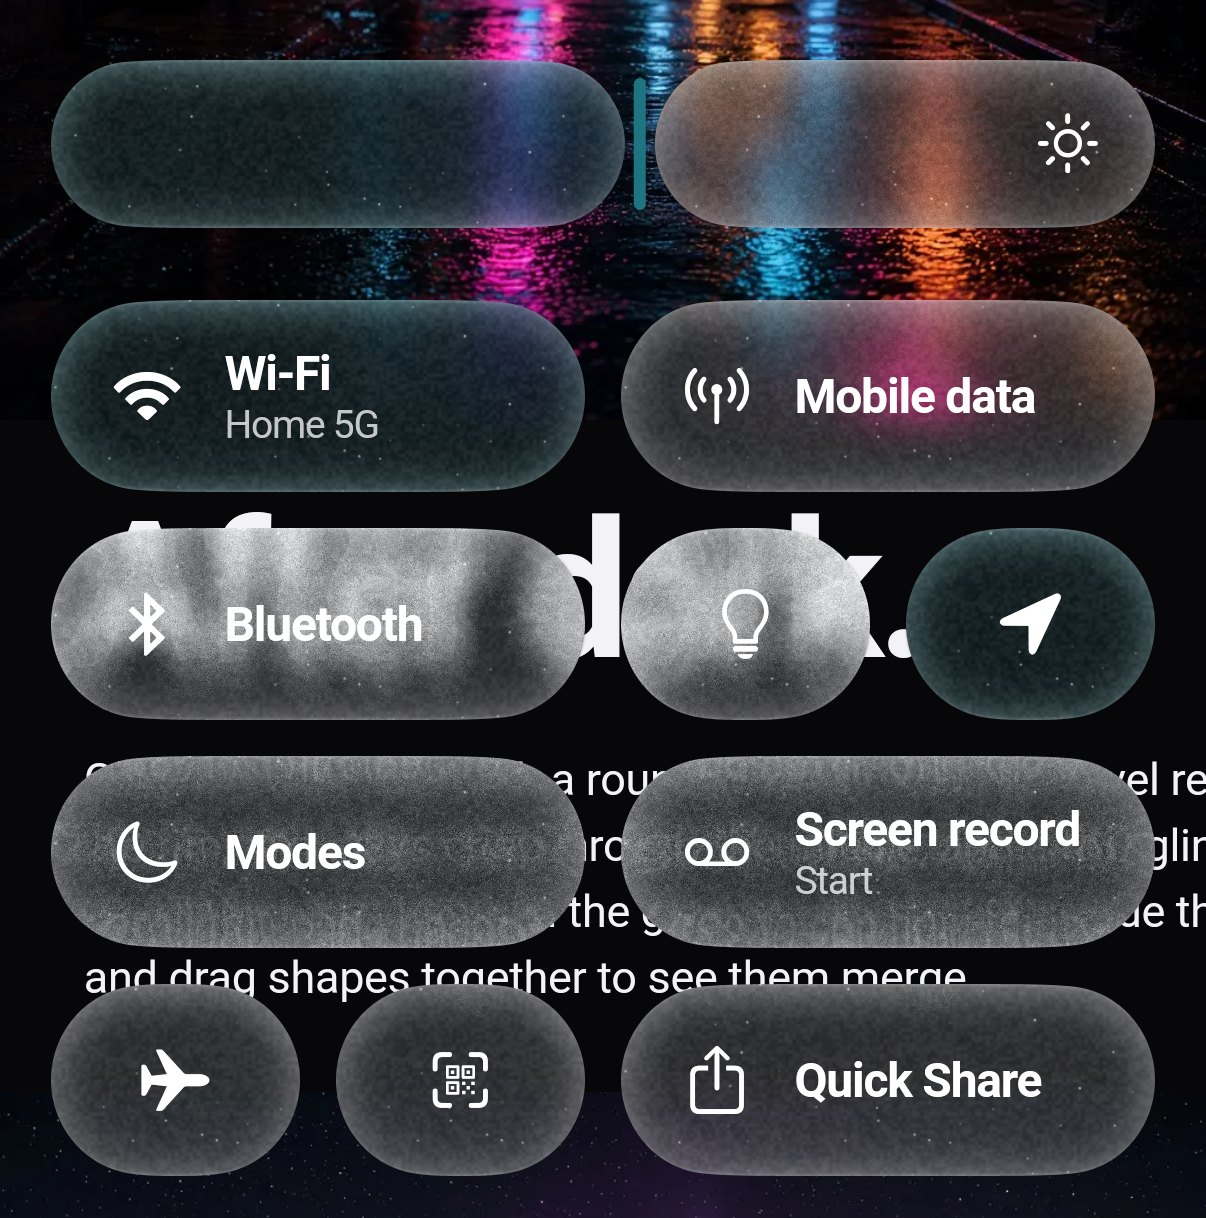
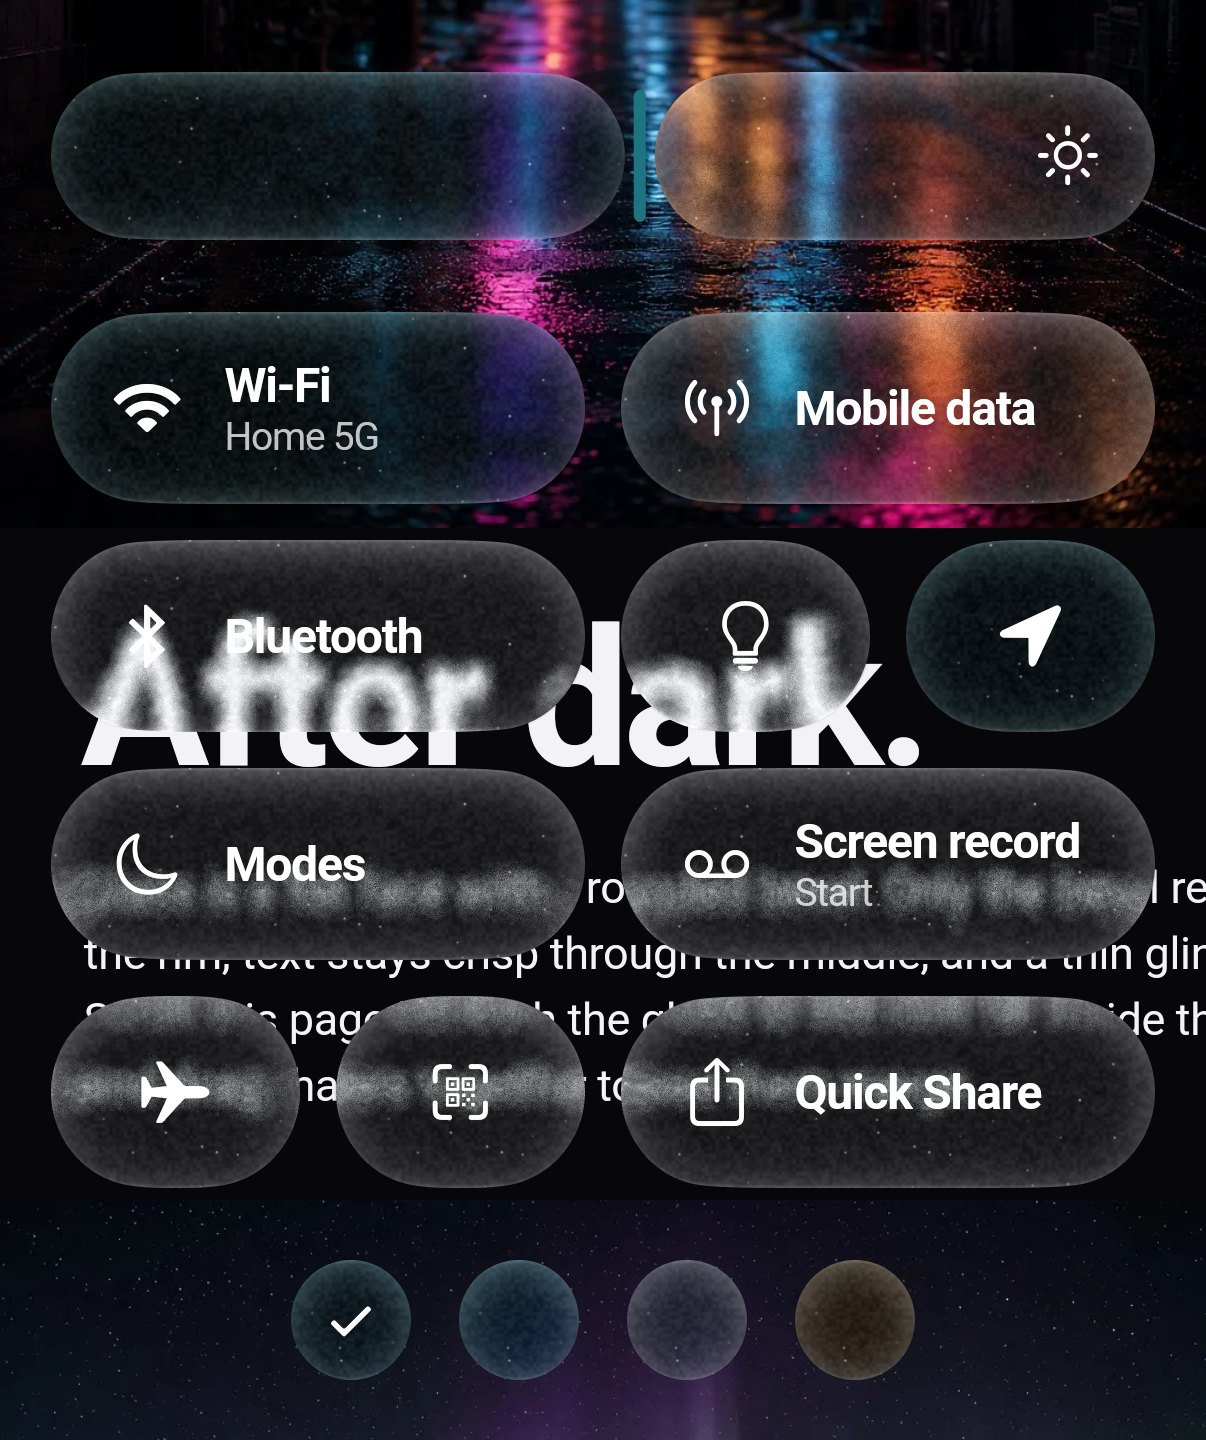
feat(liquid_glass_renderer): clearer sea glass, accent colors in the example
- The seaGlass preset now frosts as lightly as iOS 27's resting glass
  (frost 2) and SeaGlassFinish() scatters less (scatter 0.12, pitting
  0.6), so the backdrop reads through sea glass. The playground's
  frosted white body is thinner too.
- Example: the sea glass scene has accent swatches (teal, aqua, seafoam,
  amber) that recolor the switched-on tiles, keeps the light ink
  readable on light accents, and gives tiles Apple's gel-like stretch
  under liquid glass and the pebble stretch under sea glass. The scene
  stays at sixteen shapes in one layer, so it samples the backdrop once.
- README screenshots refreshed.

Claude-Session: https://claude.ai/code/session_013aWdsL46Rwzt6CACjL85kD

diff --git a/example/lib/playground/scenes/sea_glass_scene.dart b/example/lib/playground/scenes/sea_glass_scene.dart
@@ -3,35 +3,57 @@ import 'package:liquid_glass_renderer/liquid_glass_renderer.dart';
 import 'package:liquid_glass_renderer_example/playground/scenes/draggable_glass.dart';
 import 'package:liquid_glass_renderer_example/playground/sheet_avoidance.dart';
 
-/// A quick settings panel in sea glass: frosted tiles that turn to deep teal
-/// glass when switched on, and a brightness slider.
+/// A quick settings panel in sea glass: frosted tiles that turn to colored
+/// glass when switched on, a brightness slider, and a row of accent colors.
 ///
 /// Every tile is one shape in the stage's layer. Inactive tiles inherit the
-/// layer's appearance; active tiles carry a teal body color, so switching a
-/// tile only changes its appearance and never needs another backdrop
-/// capture.
+/// layer's appearance; active tiles carry the accent as their body color, so
+/// switching a tile only changes its appearance and never needs another
+/// backdrop capture.
 class SeaGlassScene extends StatefulWidget {
   const SeaGlassScene({super.key});
 
-  /// The appearance of switched-on tiles: a teal sea glass body, or teal
-  /// tinted glass when the layer has no sea glass finish.
-  static LiquidGlassAppearance activeAppearance(BuildContext context) =>
-      LiquidGlassSettings.of(context).seaGlassFinish.isEnabled
-      ? const LiquidGlassAppearance.seaGlass(color: SeaGlassColors.teal)
+  /// The accent colors to pick from, teal first. With the twelve shapes of
+  /// the panel, four swatches fill the stage layer's sixteen shapes, so the
+  /// whole scene still samples the backdrop once.
+  static const accents = [
+    ('Teal', SeaGlassColors.teal),
+    ('Aqua', SeaGlassColors.aqua),
+    ('Seafoam', SeaGlassColors.seafoam),
+    ('Amber', SeaGlassColors.amber),
+  ];
+
+  /// The appearance of switched-on tiles: a sea glass body of [color], or
+  /// glass tinted [color] when the layer has no sea glass finish.
+  static LiquidGlassAppearance activeAppearance(
+    BuildContext context, [
+    Color color = SeaGlassColors.teal,
+  ]) => LiquidGlassSettings.of(context).seaGlassFinish.isEnabled
+      ? LiquidGlassAppearance.seaGlass(color: color)
       : LiquidGlassAppearance.ios27Regular(
           brightness: CupertinoTheme.brightnessOf(context),
-          tint: SeaGlassColors.teal,
+          tint: color,
         );
 
   @override
   State<SeaGlassScene> createState() => _SeaGlassSceneState();
 }
 
-/// Ink on frosted tiles, which follows the appearance, and on teal tiles.
-Color _ink(BuildContext context, {bool active = false}) =>
-    active || CupertinoTheme.brightnessOf(context) == Brightness.dark
-    ? const Color(0xFFFFFFFF)
-    : const Color(0xFF173A40);
+/// Ink on frosted tiles, which follows the appearance, and on tiles in
+/// [accent]: white on deep colors, dark on light ones.
+Color _ink(BuildContext context, {Color? accent}) {
+  final light = accent != null
+      ? accent.computeLuminance() > 0.35
+      : CupertinoTheme.brightnessOf(context) == Brightness.light;
+  return light ? const Color(0xFF173A40) : const Color(0xFFFFFFFF);
+}
+
+/// Squash and stretch for a tile: Apple's gel-like give for liquid glass,
+/// a solid pebble's for sea glass.
+Widget _stretch(BuildContext context, Widget child) =>
+    LiquidGlassSettings.of(context).seaGlassFinish.isEnabled
+    ? LiquidStretch.seaGlass(child: child)
+    : LiquidStretch(child: child);
 
 const _tileHeight = 64.0;
 const _gap = 12.0;
@@ -39,6 +61,7 @@ const _gap = 12.0;
 class _SeaGlassSceneState extends State<SeaGlassScene> {
   final _active = <String>{'Wi-Fi', 'Location'};
   var _brightness = 0.55;
+  var _accent = SeaGlassColors.teal;
 
   void _toggle(String label) => setState(() {
     if (!_active.remove(label)) _active.add(label);
@@ -48,7 +71,7 @@ class _SeaGlassSceneState extends State<SeaGlassScene> {
     icon: icon,
     label: label,
     detail: detail,
-    active: _active.contains(label),
+    accent: _active.contains(label) ? _accent : null,
     onTap: () => _toggle(label),
   );
 
@@ -56,7 +79,7 @@ class _SeaGlassSceneState extends State<SeaGlassScene> {
     icon: icon,
     label: label,
     compact: true,
-    active: _active.contains(label),
+    accent: _active.contains(label) ? _accent : null,
     onTap: () => _toggle(label),
   );
 
@@ -73,6 +96,7 @@ class _SeaGlassSceneState extends State<SeaGlassScene> {
               children: [
                 _BrightnessSlider(
                   value: _brightness,
+                  accent: _accent,
                   onChanged: (value) => setState(() => _brightness = value),
                 ),
                 const SizedBox(height: _gap * 2),
@@ -101,6 +125,11 @@ class _SeaGlassSceneState extends State<SeaGlassScene> {
                   ], bottom: 0),
                   _wide(CupertinoIcons.share, 'Quick Share'),
                 ], bottom: 0),
+                const SizedBox(height: _gap * 2),
+                _AccentPicker(
+                  selected: _accent,
+                  onSelected: (color) => setState(() => _accent = color),
+                ),
               ],
             ),
           ),
@@ -126,8 +155,8 @@ class _Tile extends StatelessWidget {
   const _Tile({
     required this.icon,
     required this.label,
-    required this.active,
     required this.onTap,
+    this.accent,
     this.detail,
     this.compact = false,
   });
@@ -135,25 +164,32 @@ class _Tile extends StatelessWidget {
   final IconData icon;
   final String label;
   final String? detail;
-  final bool active;
+
+  /// The body color while switched on; `null` while off.
+  final Color? accent;
   final bool compact;
   final VoidCallback onTap;
 
+  bool get active => accent != null;
+
   @override
   Widget build(BuildContext context) {
-    final ink = _ink(context, active: active);
+    final ink = _ink(context, accent: accent);
     return Semantics(
       button: true,
       toggled: active,
       label: compact ? label : null,
       child: GestureDetector(
         onTap: onTap,
-        child: LiquidStretch.seaGlass(
-          child: LiquidGlass(
+        child: _stretch(
+          context,
+          LiquidGlass(
             shape: const LiquidRoundedSuperellipse(
               borderRadius: _tileHeight / 2,
             ),
-            appearance: active ? SeaGlassScene.activeAppearance(context) : null,
+            appearance: accent == null
+                ? null
+                : SeaGlassScene.activeAppearance(context, accent!),
             child: _FrostedGlow(
               child: SizedBox(
                 height: _tileHeight,
@@ -225,9 +261,14 @@ class _FrostedGlow extends StatelessWidget {
 /// A brightness slider: a teal glass bar for the level and a frosted bar
 /// for the rest, split by a thin handle.
 class _BrightnessSlider extends StatelessWidget {
-  const _BrightnessSlider({required this.value, required this.onChanged});
+  const _BrightnessSlider({
+    required this.value,
+    required this.accent,
+    required this.onChanged,
+  });
 
   final double value;
+  final Color accent;
   final ValueChanged<double> onChanged;
 
   static const _height = 56.0;
@@ -262,7 +303,10 @@ class _BrightnessSlider extends StatelessWidget {
                       shape: const LiquidRoundedSuperellipse(
                         borderRadius: _height / 2,
                       ),
-                      appearance: SeaGlassScene.activeAppearance(context),
+                      appearance: SeaGlassScene.activeAppearance(
+                        context,
+                        accent,
+                      ),
                       child: const SizedBox.expand(),
                     ),
                   ),
@@ -271,10 +315,12 @@ class _BrightnessSlider extends StatelessWidget {
                     top: 6,
                     bottom: 6,
                     width: 4,
-                    child: const DecoratedBox(
+                    child: DecoratedBox(
                       decoration: BoxDecoration(
-                        color: SeaGlassColors.teal,
-                        borderRadius: BorderRadius.all(Radius.circular(2)),
+                        color: accent,
+                        borderRadius: const BorderRadius.all(
+                          Radius.circular(2),
+                        ),
                       ),
                     ),
                   ),
@@ -306,6 +352,54 @@ class _BrightnessSlider extends StatelessWidget {
           ),
         );
       },
+    );
+  }
+}
+
+/// Small glass pebbles to pick the accent the switched-on tiles are made of.
+class _AccentPicker extends StatelessWidget {
+  const _AccentPicker({required this.selected, required this.onSelected});
+
+  final Color selected;
+  final ValueChanged<Color> onSelected;
+
+  static const _size = 40.0;
+
+  @override
+  Widget build(BuildContext context) {
+    return Row(
+      mainAxisAlignment: MainAxisAlignment.center,
+      children: [
+        for (final (name, color) in SeaGlassScene.accents)
+          Padding(
+            padding: const EdgeInsets.symmetric(horizontal: 8),
+            child: Semantics(
+              button: true,
+              selected: color == selected,
+              label: name,
+              child: GestureDetector(
+                onTap: () => onSelected(color),
+                child: _stretch(
+                  context,
+                  LiquidGlass(
+                    shape: const LiquidOval(),
+                    appearance: SeaGlassScene.activeAppearance(context, color),
+                    child: SizedBox.square(
+                      dimension: _size,
+                      child: color == selected
+                          ? Icon(
+                              CupertinoIcons.checkmark_alt,
+                              size: 20,
+                              color: _ink(context, accent: color),
+                            )
+                          : null,
+                    ),
+                  ),
+                ),
+              ),
+            ),
+          ),
+      ],
     );
   }
 }

diff --git a/lib/src/sea_glass.dart b/lib/src/sea_glass.dart
@@ -33,12 +33,12 @@ class SeaGlassFinish with Equatable {
   const SeaGlassFinish({
     this.strength = 1,
     this.depth = 18,
-    this.scatter = 0.25,
+    this.scatter = 0.12,
     this.rimGlow = 0.35,
     this.grain = 0.5,
     this.grainSize = 1.4,
     this.sparkle = 0.35,
-    this.pitting = 0.9,
+    this.pitting = 0.6,
     this.stochasticFrost = true,
   });
 
@@ -46,12 +46,12 @@ class SeaGlassFinish with Equatable {
   const SeaGlassFinish.none()
     : strength = 0,
       depth = 18,
-      scatter = 0.25,
+      scatter = 0.12,
       rimGlow = 0.35,
       grain = 0.5,
       grainSize = 1.4,
       sparkle = 0.35,
-      pitting = 0.9,
+      pitting = 0.6,
       stochasticFrost = true;
 
   /// A heavily tumbled, milkier pebble: more scatter, coarser grain and a
@@ -71,12 +71,12 @@ class SeaGlassFinish with Equatable {
   const SeaGlassFinish.clear()
     : strength = 1,
       depth = 14,
-      scatter = 0.08,
+      scatter = 0.05,
       rimGlow = 0.25,
       grain = 0.3,
       grainSize = 1.2,
       sparkle = 0.2,
-      pitting = 0.5,
+      pitting = 0.4,
       stochasticFrost = true;
 
   /// Restores a finish produced by [toJson].

diff --git a/example/test/playground_test.dart b/example/test/playground_test.dart
@@ -424,6 +424,20 @@ void main() {
     await tester.tap(find.text('Wi-Fi'));
     await tester.pumpAndSettle();
     expect(tile('Wi-Fi').appearance, isNull);
+
+    // The accent swatches recolor the switched-on tiles, still within the
+    // one stage layer.
+    await tester.tap(
+      find.byWidgetPredicate(
+        (widget) => widget is Semantics && widget.properties.label == 'Amber',
+      ),
+    );
+    await tester.pumpAndSettle();
+    expect(
+      tile('Mobile data').appearance,
+      const LiquidGlassAppearance.seaGlass(color: SeaGlassColors.amber),
+    );
+    expect(find.byType(LiquidGlassLayer), findsOneWidget);
     expect(find.text('Light Angle'), findsOneWidget);
     expect(find.text('Scattered Frost'), findsOneWidget);
 

diff --git a/test/src/sea_glass_test.dart b/test/src/sea_glass_test.dart
@@ -508,7 +508,14 @@ void main() {
         final pixel = await _render(
           tester,
           _scene(
-            _flat(const SeaGlassFinish(grain: 0, sparkle: 0, pitting: 0)),
+            _flat(
+              const SeaGlassFinish(
+                scatter: .25,
+                grain: 0,
+                sparkle: 0,
+                pitting: 0,
+              ),
+            ),
             const LiquidGlassAppearance.seaGlass(color: SeaGlassColors.aqua),
             backdrop: const Row(
               crossAxisAlignment: CrossAxisAlignment.stretch,

diff --git a/example/lib/playground/presets.dart b/example/lib/playground/presets.dart
@@ -52,10 +52,10 @@ enum GlassStyle {
   };
 }
 
-/// Frosted white sea glass: a pale, light body so the backdrop stays
+/// Frosted white sea glass: a pale, thin body so the backdrop stays
 /// readable through it.
 const seaGlassAppearance = LiquidGlassAppearance.seaGlass(
-  color: Color(0x8CE9F0EC),
+  color: Color(0x59E9F0EC),
 );
 
 /// The glass of the iOS 27 text loupe: a clear, unfrosted lens with a narrow

diff --git a/lib/src/liquid_glass_settings.dart b/lib/src/liquid_glass_settings.dart
@@ -79,7 +79,7 @@ class LiquidGlassSettings with Equatable {
   /// Give each shape its body color with [LiquidGlassAppearance.seaGlass].
   factory LiquidGlassSettings.seaGlass({
     SeaGlassFinish finish = const SeaGlassFinish(),
-    double frost = 5,
+    double frost = 2,
     double refractionHeight = 36,
     double refractionAmount = 16,
     double highlight = 0.3,

diff --git a/example/tool/crop_readme_screenshots.py b/example/tool/crop_readme_screenshots.py
@@ -21,7 +21,7 @@ CROPS = {
     "blend": ("blend", 50, 350, 370, 570),
     "colors": ("colors", 70, 345, 332, 590),
     "loupe": ("loupe", 0, 170, 402, 470),
-    "sea-glass": ("seaGlass", 0, 262, 402, 668),
+    "sea-glass": ("seaGlass", 0, 226, 402, 706),
 }
 
 

diff --git a/CHANGELOG.md b/CHANGELOG.md
@@ -18,6 +18,9 @@
   shape's frost moves with that shape and cross-fades seamlessly across a
   blend group's bridge, and `LiquidStretch.seaGlass` gives a stiffer,
   heavier response.
+- **Clearer sea glass.** The `seaGlass` preset frosts as lightly as iOS
+  27's resting glass (`frost: 2`), and `SeaGlassFinish()` scatters less
+  (`scatter: 0.12`, `pitting: 0.6`), so the backdrop reads through it.
 - **Frost on the shape's surface.** Each shape's frost is evaluated in the
   shape's own frame, so it turns and stretches with a rotated or scaled
   shape, not only moves with it.
